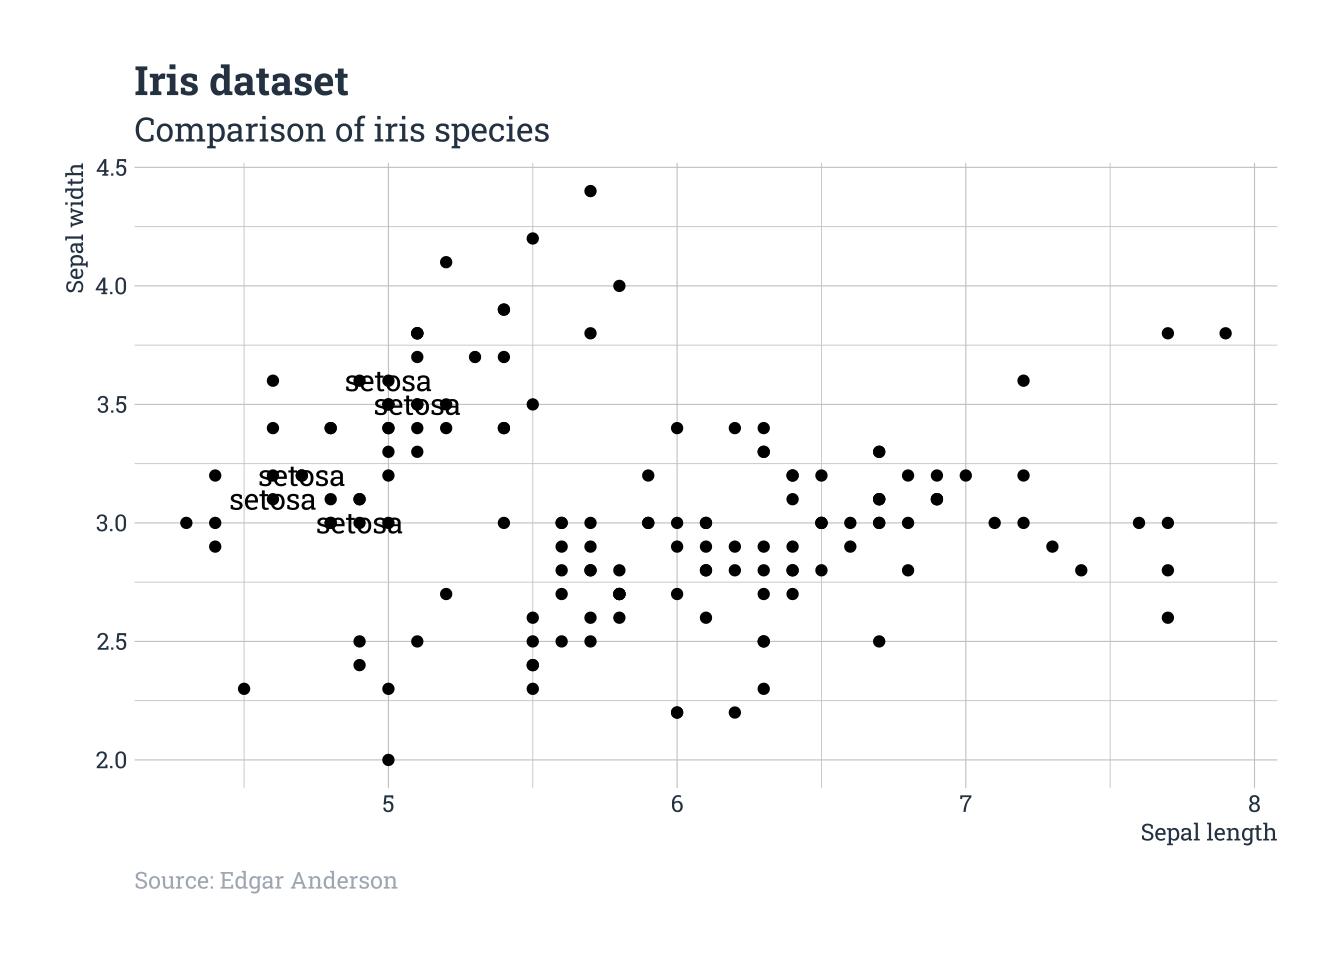
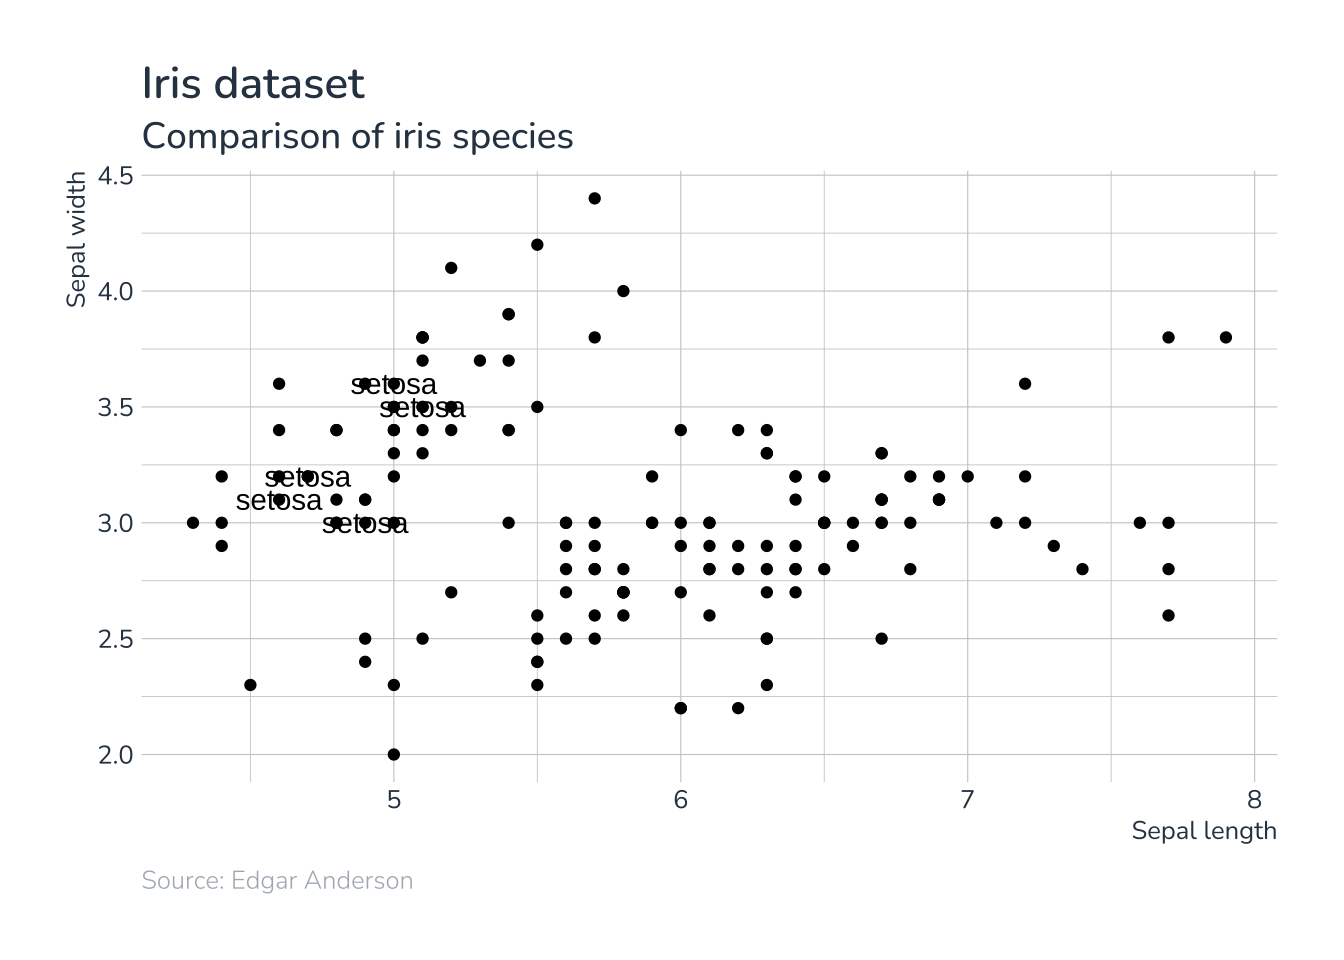
Update vignettes to include comparisons of minimal and plummy themes, and enhance font customization examples

diff --git a/docs/articles/index.html b/docs/articles/index.html
@@ -57,7 +57,7 @@
       <h1>Usage</h1>
       <p class="subtitle">Using custom themes in ggplot2</p>
 
-      <p class="date">01-Sep-2024</p>
+      <p class="date">16-Nov-2024</p>
 
       <small class="dont-index">Source: <a href="https://github.com/royfrancis/plummy/blob/HEAD/vignettes/index.qmd"><code>vignettes/index.qmd</code></a></small>
       <div class="d-none name"><code></code></div>
@@ -125,18 +125,35 @@
 <span><span class="va">p2</span> <span class="op">&lt;-</span> <span class="va">p1</span> <span class="op">+</span> <span class="fu"><a href="https://ggplot2.tidyverse.org/reference/ggtheme.html" class="external-link">theme_minimal</a></span><span class="op">(</span><span class="op">)</span></span>
 <span><span class="fu"><a href="https://patchwork.data-imaginist.com/reference/wrap_plots.html" class="external-link">wrap_plots</a></span><span class="op">(</span><span class="va">p1</span>, <span class="va">p2</span>, ncol <span class="op">=</span> <span class="fl">2</span><span class="op">)</span></span></code></pre></div>
 <div class="cell-output-display">
-<div id="fig-compare-default-custom" class="quarto-float quarto-figure quarto-figure-center">
-<figure class="quarto-float quarto-float-fig"><div aria-describedby="fig-compare-default-custom-caption-0ceaefa1-69ba-4598-a22c-09a6ac19f8ca">
-<img src="index_files/figure-html/fig-compare-default-custom-1.png" width="864">
+<div id="fig-compare-default-minimal" class="quarto-float quarto-figure quarto-figure-center">
+<figure class="quarto-float quarto-float-fig"><div aria-describedby="fig-compare-default-minimal-caption-0ceaefa1-69ba-4598-a22c-09a6ac19f8ca">
+<img src="index_files/figure-html/fig-compare-default-minimal-1.png" width="864">
 </div>
-<figcaption class="quarto-float-caption-bottom quarto-float-caption quarto-float-fig" id="fig-compare-default-custom-caption-0ceaefa1-69ba-4598-a22c-09a6ac19f8ca">
-Figure 1: Comparison of default theme and the grid theme.
+<figcaption class="quarto-float-caption-bottom quarto-float-caption quarto-float-fig" id="fig-compare-default-minimal-caption-0ceaefa1-69ba-4598-a22c-09a6ac19f8ca">
+Figure 1: Comparison of default theme and the minimal theme.
 </figcaption></figure>
 </div>
 </div>
 </div>
+<p>Now let’s try the plummy theme.</p>
 <div class="cell">
 <div class="sourceCode cell-code" id="cb8"><pre class="downlit sourceCode r">
+<code class="sourceCode R"><span><span class="va">p3</span> <span class="op">&lt;-</span> <span class="va">p1</span> <span class="op">+</span> <span class="fu"><a href="../reference/plummy.html">plummy</a></span><span class="op">(</span><span class="op">)</span></span>
+<span><span class="fu"><a href="https://patchwork.data-imaginist.com/reference/wrap_plots.html" class="external-link">wrap_plots</a></span><span class="op">(</span><span class="va">p2</span>, <span class="va">p3</span>, ncol <span class="op">=</span> <span class="fl">2</span><span class="op">)</span></span></code></pre></div>
+<div class="cell-output-display">
+<div id="fig-compare-minimal-plummy" class="quarto-float quarto-figure quarto-figure-center">
+<figure class="quarto-float quarto-float-fig"><div aria-describedby="fig-compare-minimal-plummy-caption-0ceaefa1-69ba-4598-a22c-09a6ac19f8ca">
+<img src="index_files/figure-html/fig-compare-minimal-plummy-1.png" width="864">
+</div>
+<figcaption class="quarto-float-caption-bottom quarto-float-caption quarto-float-fig" id="fig-compare-minimal-plummy-caption-0ceaefa1-69ba-4598-a22c-09a6ac19f8ca">
+Figure 2: Comparison of minimal theme and plummy theme.
+</figcaption></figure>
+</div>
+</div>
+</div>
+<p>Now let’s try the plummy theme with custom fonts.</p>
+<div class="cell">
+<div class="sourceCode cell-code" id="cb9"><pre class="downlit sourceCode r">
 <code class="sourceCode R"><span><span class="va">p2</span> <span class="op">&lt;-</span> <span class="va">p1</span> <span class="op">+</span> <span class="fu"><a href="../reference/plummy.html">plummy</a></span><span class="op">(</span>family <span class="op">=</span> <span class="st">"barlow"</span><span class="op">)</span></span>
 <span><span class="va">p3</span> <span class="op">&lt;-</span> <span class="va">p1</span> <span class="op">+</span> <span class="fu"><a href="../reference/plummy.html">plummy</a></span><span class="op">(</span>family <span class="op">=</span> <span class="st">"inter"</span><span class="op">)</span></span>
 <span><span class="va">p4</span> <span class="op">&lt;-</span> <span class="va">p1</span> <span class="op">+</span> <span class="fu"><a href="../reference/plummy.html">plummy</a></span><span class="op">(</span>family <span class="op">=</span> <span class="st">"plex"</span><span class="op">)</span></span>
@@ -149,14 +166,14 @@ Figure 1: Comparison of default theme and the grid theme.
 <img src="index_files/figure-html/fig-compare-themes-1.png" width="864">
 </div>
 <figcaption class="quarto-float-caption-bottom quarto-float-caption quarto-float-fig" id="fig-compare-themes-caption-0ceaefa1-69ba-4598-a22c-09a6ac19f8ca">
-Figure 2: Comparison of grid theme with barlow, inter, plex and nunito fonts.
+Figure 3: Comparison of grid theme with barlow, inter, plex and nunito fonts.
 </figcaption></figure>
 </div>
 </div>
 </div>
 <p>To set theme for all plots in a session, use</p>
 <div class="cell">
-<div class="sourceCode cell-code" id="cb9"><pre class="downlit sourceCode r">
+<div class="sourceCode cell-code" id="cb10"><pre class="downlit sourceCode r">
 <code class="sourceCode R"><span><span class="kw"><a href="https://rdrr.io/r/base/library.html" class="external-link">library</a></span><span class="op">(</span><span class="va"><a href="https://ggplot2.tidyverse.org" class="external-link">ggplot2</a></span><span class="op">)</span></span>
 <span><span class="fu"><a href="https://ggplot2.tidyverse.org/reference/theme_get.html" class="external-link">theme_set</a></span><span class="op">(</span><span class="fu"><a href="../reference/plummy.html">plummy</a></span><span class="op">(</span>family <span class="op">=</span> <span class="st">"inter"</span><span class="op">)</span><span class="op">)</span></span></code></pre></div>
 </div>
@@ -167,13 +184,14 @@ Figure 2: Comparison of grid theme with barlow, inter, plex and nunito fonts.
 <div class="cell">
 <div class="cell-output-display">
 <div>
-<figure><p><img src="index_files/figure-html/unnamed-chunk-7-1.png" width="864"></p>
+<figure><p><img src="index_files/figure-html/unnamed-chunk-8-1.png" width="864"></p>
 </figure>
 </div>
 </div>
 </div>
+<p>A preview of the color schemes.</p>
 <div class="cell">
-<div class="sourceCode cell-code" id="cb10"><pre class="downlit sourceCode r">
+<div class="sourceCode cell-code" id="cb11"><pre class="downlit sourceCode r">
 <code class="sourceCode R"><span><span class="va">p1</span> <span class="op">&lt;-</span> <span class="fu"><a href="https://ggplot2.tidyverse.org/reference/ggplot.html" class="external-link">ggplot</a></span><span class="op">(</span><span class="va">iris</span>, <span class="fu"><a href="https://ggplot2.tidyverse.org/reference/aes.html" class="external-link">aes</a></span><span class="op">(</span><span class="va">Sepal.Length</span>, <span class="va">Sepal.Width</span>, color <span class="op">=</span> <span class="va">Species</span><span class="op">)</span><span class="op">)</span> <span class="op">+</span></span>
 <span>  <span class="fu"><a href="https://ggplot2.tidyverse.org/reference/geom_point.html" class="external-link">geom_point</a></span><span class="op">(</span><span class="op">)</span> <span class="op">+</span></span>
 <span>  <span class="fu"><a href="https://ggplot2.tidyverse.org/reference/labs.html" class="external-link">labs</a></span><span class="op">(</span></span>
@@ -195,13 +213,14 @@ Figure 2: Comparison of grid theme with barlow, inter, plex and nunito fonts.
 <img src="index_files/figure-html/fig-colors-1.png" width="912">
 </div>
 <figcaption class="quarto-float-caption-bottom quarto-float-caption quarto-float-fig" id="fig-colors-caption-0ceaefa1-69ba-4598-a22c-09a6ac19f8ca">
-Figure 3: Overview of the custom color scales
+Figure 4: Overview of the custom color scales
 </figcaption></figure>
 </div>
 </div>
 </div>
+<p>Below are examples of some of the customizations available in the plummy theme.</p>
 <div class="cell">
-<div class="sourceCode cell-code" id="cb11"><pre class="downlit sourceCode r">
+<div class="sourceCode cell-code" id="cb12"><pre class="downlit sourceCode r">
 <code class="sourceCode R"><span><span class="va">p2</span> <span class="op">&lt;-</span> <span class="va">p1</span> <span class="op">+</span> <span class="fu"><a href="../reference/scale_tableau.html">scale_color_tableau</a></span><span class="op">(</span><span class="op">)</span> <span class="op">+</span> <span class="fu"><a href="../reference/plummy.html">plummy</a></span><span class="op">(</span>family <span class="op">=</span> <span class="st">"barlow"</span>, grid <span class="op">=</span> <span class="st">"Y"</span>, leg <span class="op">=</span> <span class="st">"h"</span><span class="op">)</span></span>
 <span><span class="va">p3</span> <span class="op">&lt;-</span> <span class="va">p1</span> <span class="op">+</span> <span class="fu"><a href="../reference/scale_tableau.html">scale_color_tableau</a></span><span class="op">(</span><span class="op">)</span> <span class="op">+</span> <span class="fu"><a href="../reference/plummy.html">plummy</a></span><span class="op">(</span>family <span class="op">=</span> <span class="st">"inter"</span>, grid <span class="op">=</span> <span class="st">"y"</span>, leg <span class="op">=</span> <span class="st">"h"</span><span class="op">)</span></span>
 <span><span class="va">p4</span> <span class="op">&lt;-</span> <span class="va">p1</span> <span class="op">+</span> <span class="fu"><a href="../reference/scale_tableau.html">scale_color_tableau</a></span><span class="op">(</span><span class="op">)</span> <span class="op">+</span> <span class="fu"><a href="../reference/plummy.html">plummy</a></span><span class="op">(</span>family <span class="op">=</span> <span class="st">"plex"</span>, grid <span class="op">=</span> <span class="st">"X"</span>, leg <span class="op">=</span> <span class="st">"h"</span><span class="op">)</span></span>
@@ -214,13 +233,14 @@ Figure 3: Overview of the custom color scales
 <img src="index_files/figure-html/fig-grid-1.png" width="912">
 </div>
 <figcaption class="quarto-float-caption-bottom quarto-float-caption quarto-float-fig" id="fig-grid-caption-0ceaefa1-69ba-4598-a22c-09a6ac19f8ca">
-Figure 4: Custom color scale, legend in placed on the top and customized gridlines.
+Figure 5: Custom color scale, legend in placed on the top and customized gridlines.
 </figcaption></figure>
 </div>
 </div>
 </div>
+<p>Next we take a look at examples with facetting.</p>
 <div class="cell">
-<div class="sourceCode cell-code" id="cb12"><pre class="downlit sourceCode r">
+<div class="sourceCode cell-code" id="cb13"><pre class="downlit sourceCode r">
 <code class="sourceCode R"><span><span class="va">p1</span> <span class="op">&lt;-</span> <span class="fu"><a href="https://ggplot2.tidyverse.org/reference/ggplot.html" class="external-link">ggplot</a></span><span class="op">(</span><span class="va">iris</span>, <span class="fu"><a href="https://ggplot2.tidyverse.org/reference/aes.html" class="external-link">aes</a></span><span class="op">(</span><span class="va">Sepal.Length</span>, <span class="va">Sepal.Width</span>, color <span class="op">=</span> <span class="va">Species</span><span class="op">)</span><span class="op">)</span> <span class="op">+</span></span>
 <span>  <span class="fu"><a href="https://ggplot2.tidyverse.org/reference/geom_point.html" class="external-link">geom_point</a></span><span class="op">(</span><span class="op">)</span> <span class="op">+</span></span>
 <span>  <span class="fu"><a href="https://ggplot2.tidyverse.org/reference/facet_grid.html" class="external-link">facet_grid</a></span><span class="op">(</span><span class="op">~</span><span class="va">Species</span><span class="op">)</span> <span class="op">+</span></span>
@@ -243,14 +263,14 @@ Figure 4: Custom color scale, legend in placed on the top and customized gridli
 <img src="index_files/figure-html/fig-facetting-1.png" width="912">
 </div>
 <figcaption class="quarto-float-caption-bottom quarto-float-caption quarto-float-fig" id="fig-facetting-caption-0ceaefa1-69ba-4598-a22c-09a6ac19f8ca">
-Figure 5: Example with facetting.
+Figure 6: Example with facetting.
 </figcaption></figure>
 </div>
 </div>
 </div>
 <p>To set palette for all plots in a session, use</p>
 <div class="cell">
-<div class="sourceCode cell-code" id="cb13"><pre class="downlit sourceCode r">
+<div class="sourceCode cell-code" id="cb14"><pre class="downlit sourceCode r">
 <code class="sourceCode R"><span><span class="fu"><a href="https://rdrr.io/r/base/options.html" class="external-link">options</a></span><span class="op">(</span>ggplot2.discrete.colour <span class="op">=</span> <span class="fu"><a href="../reference/palette_tableau.html">palette_tableau</a></span><span class="op">(</span><span class="op">)</span><span class="op">(</span><span class="fl">20</span><span class="op">)</span><span class="op">)</span></span>
 <span><span class="fu"><a href="https://rdrr.io/r/base/options.html" class="external-link">options</a></span><span class="op">(</span>ggplot2.discrete.fill <span class="op">=</span> <span class="fu"><a href="../reference/palette_tableau.html">palette_tableau</a></span><span class="op">(</span><span class="op">)</span><span class="op">(</span><span class="fl">20</span><span class="op">)</span><span class="op">)</span></span></code></pre></div>
 </div>
@@ -265,7 +285,7 @@ Figure 5: Example with facetting.
 <img src="index_files/figure-html/fig-preview-families-1.png" width="672">
 </div>
 <figcaption class="quarto-float-caption-bottom quarto-float-caption quarto-float-fig" id="fig-preview-families-caption-0ceaefa1-69ba-4598-a22c-09a6ac19f8ca">
-Figure 6: Preview of font families
+Figure 7: Preview of font families
 </figcaption></figure>
 </div>
 </div>
@@ -277,7 +297,7 @@ Figure 6: Preview of font families
 <img src="index_files/figure-html/fig-preview-fonts-1.png" width="768">
 </div>
 <figcaption class="quarto-float-caption-bottom quarto-float-caption quarto-float-fig" id="fig-preview-fonts-caption-0ceaefa1-69ba-4598-a22c-09a6ac19f8ca">
-Figure 7: Preview of font families and fonts
+Figure 8: Preview of font families and fonts
 </figcaption></figure>
 </div>
 </div>
@@ -285,9 +305,9 @@ Figure 7: Preview of font families and fonts
 </section><section class="level2" data-number="5"><h2 data-number="5" id="text-geoms">
 <span class="header-section-number">5</span> Text geoms<a class="anchor" aria-label="anchor" href="#text-geoms"></a>
 </h2>
-<p>Text in geoms are not controlled by theme. Geoms with text can be updated with custom font using <code><a href="../reference/update_geom_font.html">update_geom_font()</a></code>.</p>
+<p>Text in geoms are not controlled by theme. As an example, the plot below uses the plummy theme, but the <code><a href="https://ggplot2.tidyverse.org/reference/geom_text.html" class="external-link">geom_text()</a></code> labels do not change to the theme font.</p>
 <div class="cell">
-<div class="sourceCode cell-code" id="cb14"><pre class="downlit sourceCode r">
+<div class="sourceCode cell-code" id="cb15"><pre class="downlit sourceCode r">
 <code class="sourceCode R"><span><span class="va">p2</span> <span class="op">&lt;-</span> <span class="fu"><a href="https://ggplot2.tidyverse.org/reference/ggplot.html" class="external-link">ggplot</a></span><span class="op">(</span><span class="va">iris</span>, <span class="fu"><a href="https://ggplot2.tidyverse.org/reference/aes.html" class="external-link">aes</a></span><span class="op">(</span><span class="va">Sepal.Length</span>, <span class="va">Sepal.Width</span><span class="op">)</span><span class="op">)</span> <span class="op">+</span></span>
 <span>  <span class="fu"><a href="https://ggplot2.tidyverse.org/reference/geom_point.html" class="external-link">geom_point</a></span><span class="op">(</span><span class="op">)</span> <span class="op">+</span></span>
 <span>  <span class="fu"><a href="https://ggplot2.tidyverse.org/reference/geom_text.html" class="external-link">geom_text</a></span><span class="op">(</span>data <span class="op">=</span> <span class="va">iris</span><span class="op">[</span><span class="fl">1</span><span class="op">:</span><span class="fl">5</span>, <span class="op">]</span>, <span class="fu"><a href="https://ggplot2.tidyverse.org/reference/aes.html" class="external-link">aes</a></span><span class="op">(</span>label <span class="op">=</span> <span class="va">Species</span><span class="op">)</span><span class="op">)</span> <span class="op">+</span></span>
@@ -299,11 +319,22 @@ Figure 7: Preview of font families and fonts
 <span>    caption <span class="op">=</span> <span class="st">"Source: Edgar Anderson"</span></span>
 <span>  <span class="op">)</span></span>
 <span></span>
-<span><span class="fu"><a href="../reference/update_geom_font.html">update_geom_font</a></span><span class="op">(</span>family <span class="op">=</span> <span class="st">"barlow"</span><span class="op">)</span></span>
-<span><span class="va">p2</span> <span class="op">+</span> <span class="fu"><a href="../reference/plummy.html">plummy</a></span><span class="op">(</span>family <span class="op">=</span> <span class="st">"barlow"</span><span class="op">)</span></span></code></pre></div>
+<span><span class="va">p2</span> <span class="op">+</span> <span class="fu"><a href="../reference/plummy.html">plummy</a></span><span class="op">(</span>family <span class="op">=</span> <span class="st">"nunito"</span><span class="op">)</span></span></code></pre></div>
 <div class="cell-output-display">
 <div>
-<figure><p><img src="index_files/figure-html/unnamed-chunk-14-1.png" width="672"></p>
+<figure><p><img src="index_files/figure-html/unnamed-chunk-15-1.png" width="672"></p>
+</figure>
+</div>
+</div>
+</div>
+<p>Geoms with text can be updated with custom font using <code><a href="../reference/update_geom_font.html">update_geom_font()</a></code>.</p>
+<div class="cell">
+<div class="sourceCode cell-code" id="cb16"><pre class="downlit sourceCode r">
+<code class="sourceCode R"><span><span class="fu"><a href="../reference/update_geom_font.html">update_geom_font</a></span><span class="op">(</span>family <span class="op">=</span> <span class="st">"nunito"</span><span class="op">)</span></span>
+<span><span class="va">p2</span> <span class="op">+</span> <span class="fu"><a href="../reference/plummy.html">plummy</a></span><span class="op">(</span>family <span class="op">=</span> <span class="st">"nunito"</span><span class="op">)</span></span></code></pre></div>
+<div class="cell-output-display">
+<div>
+<figure><p><img src="index_files/figure-html/unnamed-chunk-16-1.png" width="672"></p>
 </figure>
 </div>
 </div>
@@ -313,7 +344,7 @@ Figure 7: Preview of font families and fonts
 </h2>
 <p>It is also possible to use any google font by providing font names to the <code>family</code> argument in <code><a href="../reference/plummy.html">plummy()</a></code>.</p>
 <div class="cell">
-<div class="sourceCode cell-code" id="cb15"><pre class="downlit sourceCode r">
+<div class="sourceCode cell-code" id="cb17"><pre class="downlit sourceCode r">
 <code class="sourceCode R"><span><span class="fu">sysfonts</span><span class="fu">::</span><span class="fu"><a href="https://rdrr.io/pkg/sysfonts/man/font_add_google.html" class="external-link">font_add_google</a></span><span class="op">(</span>name <span class="op">=</span> <span class="st">"Roboto Slab"</span>, family <span class="op">=</span> <span class="st">"robotoslab"</span><span class="op">)</span></span>
 <span><span class="fu"><a href="../reference/update_geom_font.html">update_geom_font</a></span><span class="op">(</span>family <span class="op">=</span> <span class="st">"robotoslab"</span><span class="op">)</span></span>
 <span></span>
@@ -321,7 +352,7 @@ Figure 7: Preview of font families and fonts
 <span><span class="va">p2</span> <span class="op">+</span> <span class="fu"><a href="../reference/plummy.html">plummy</a></span><span class="op">(</span>family <span class="op">=</span> <span class="st">"robotoslab"</span><span class="op">)</span></span></code></pre></div>
 <div class="cell-output-display">
 <div>
-<figure><p><img src="index_files/figure-html/unnamed-chunk-15-1.png" width="672"></p>
+<figure><p><img src="index_files/figure-html/unnamed-chunk-17-1.png" width="672"></p>
 </figure>
 </div>
 </div>

diff --git a/docs/authors.html b/docs/authors.html
@@ -42,18 +42,19 @@
 
     <div class="section level2">
       <h2 id="citation">Citation</h2>
-      <p><small class="dont-index">Source: <a href="https://github.com/royfrancis/plummy/blob/HEAD/DESCRIPTION"><code>DESCRIPTION</code></a></small></p>
+      <p><small class="dont-index">Source: <a href="https://github.com/royfrancis/plummy/blob/HEAD/inst/CITATION"><code>inst/CITATION</code></a></small></p>
 
       <p>Francis R (2024).
-<em>plummy: Themes for ggplot2</em>.
-R package version 0.2, <a href="http://github.com/royfrancis/plummy" class="external-link">http://github.com/royfrancis/plummy</a>.
+<em>plummy: Custom ggplot2 themes</em>.
+R package version 0.2, <a href="https://github.com/royfrancis/plummy">https://github.com/royfrancis/plummy</a>.
 </p>
       <pre>@Manual{,
-  title = {plummy: Themes for ggplot2},
+  title = {plummy: Custom ggplot2 themes},
   author = {Roy Francis},
   year = {2024},
+  version = {0.2},
   note = {R package version 0.2},
-  url = {http://github.com/royfrancis/plummy},
+  url = {https://github.com/royfrancis/plummy},
 }</pre>
     </div>
 
